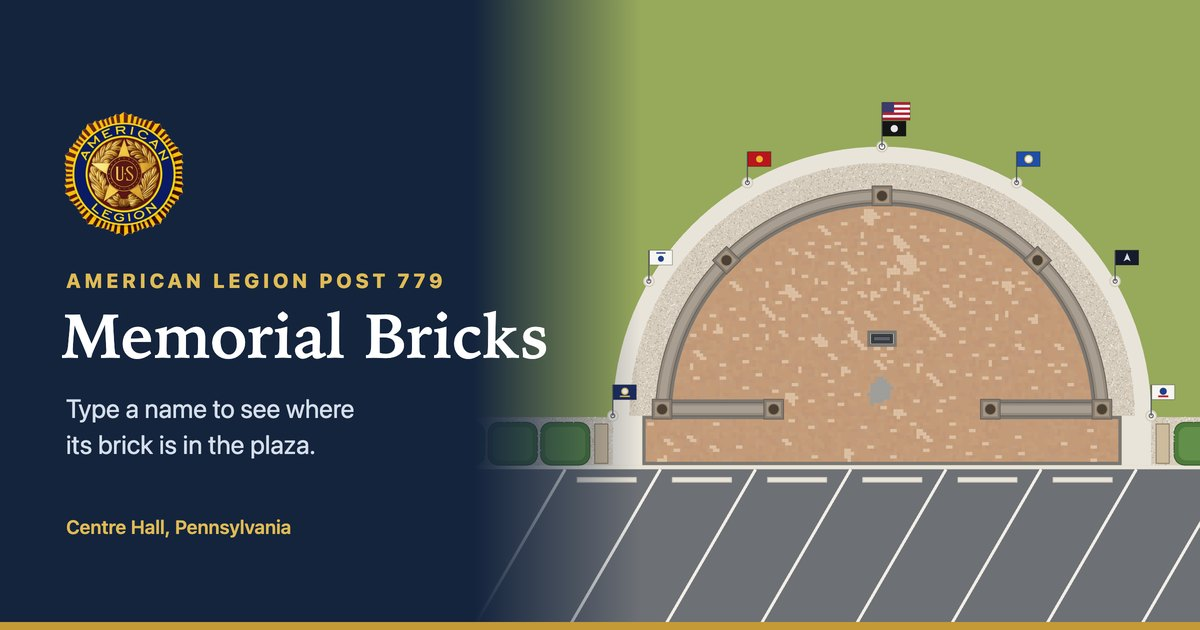
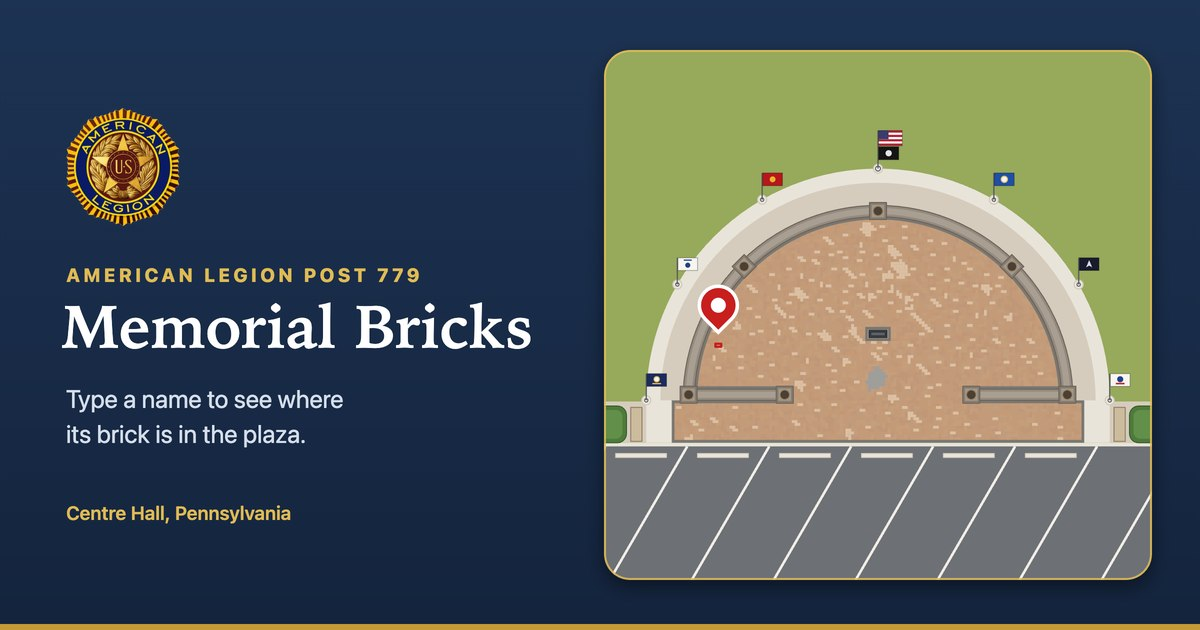
Gravel under the shrubs, new link preview, fixes for larger text
- Stones in the gravel beds are drawn under the shrubs, bench and path, and
  the ones behind the wall no longer poke out over the path
- Link preview redone: the map sits in its own frame beside the title, with
  a pin on a brick. Its address has a version number so apps that cached
  the old picture fetch the new one, plus size and alt text
- The page could be forced wider than the screen, which cut off About, the
  close button and the brick with Safari's text size turned up. It now
  always fits, and the header, card and About tighten on very narrow screens
- Double-tapping a button no longer zooms the page on iPhones

diff --git a/js/map.js b/js/map.js
@@ -249,24 +249,26 @@ const MapView = (() => {
     out.curb = halfRing(axis, arcY, R.gravelOut, R.curbOut);
     for (const p of Plan.pads) out.curb.rect(p.left, p.top, p.right - p.left, p.bottom - p.top);
 
-    // Stones in the gravel beds.
+    // Stones in the gravel: the ring behind the wall, and the beds beside the
+    // walkway (those go down first, under the shrubs, bench and path).
     const rand = mulberry32(779);
-    out.stonesDark = new Path2D();
-    out.stonesLight = new Path2D();
-    const stone = (x, y) => {
+    const stones = () => ({ dark: new Path2D(), light: new Path2D() });
+    out.ringStones = stones();
+    out.bedStones = stones();
+    const stone = (group, x, y) => {
       const size = 0.07 + rand() * 0.13,
-        path = rand() < 0.55 ? out.stonesDark : out.stonesLight;
+        path = rand() < 0.55 ? group.dark : group.light;
       path.moveTo(x + size, y);
       path.arc(x, y, size, 0, 2 * Math.PI);
     };
     const scatter = (x, y, w, h) => {
-      for (let i = 0; i < w * h * 3; i++) stone(x + rand() * w, y + rand() * h);
+      for (let i = 0; i < w * h * 3; i++) stone(out.bedStones, x + rand() * w, y + rand() * h);
     };
     const area = (Math.PI / 2) * (R.gravelOut ** 2 - R.wallOut ** 2);
     for (let i = 0; i < area * 3; i++) {
       const t = Math.PI + rand() * Math.PI,
         r = Math.sqrt(R.wallOut ** 2 + rand() * (R.gravelOut ** 2 - R.wallOut ** 2));
-      stone(axis + r * Math.cos(t), arcY + r * Math.sin(t));
+      stone(out.ringStones, axis + r * Math.cos(t), arcY + r * Math.sin(t));
     }
 
     // Walls: the curved one and the two straight ones.
@@ -753,9 +755,10 @@ const MapView = (() => {
       ctx.lineWidth = Math.max(px, 0.1);
       ctx.stroke(S.wheelStops);
 
-      // Hedges and benches beside the walkway
+      // Gravel beds beside the walkway, with the shrubs on them
       ctx.fillStyle = C.gravel;
       ctx.fill(S.hedgeRock);
+      if (scale > 3) this.drawStones(S.bedStones);
       ctx.fillStyle = C.hedge;
       ctx.fill(S.hedges);
       ctx.fillStyle = C.hedgeTop;
@@ -770,10 +773,10 @@ const MapView = (() => {
       ctx.fillStyle = C.gravel;
       ctx.fill(S.gravel);
       if (scale > 3) {
-        ctx.fillStyle = C.gravelDark;
-        ctx.fill(S.stonesDark);
-        ctx.fillStyle = C.gravelLight;
-        ctx.fill(S.stonesLight);
+        ctx.save();
+        ctx.clip(S.gravel); // so no stone pokes out over the path
+        this.drawStones(S.ringStones);
+        ctx.restore();
       }
       ctx.fillStyle = C.bench;
       ctx.fill(S.benches);
@@ -861,6 +864,14 @@ const MapView = (() => {
         this.zoomedOut = zoomedOut;
         this.cb.onZoomedOut?.(zoomedOut);
       }
+    }
+
+    drawStones({ dark, light }) {
+      const { ctx } = this;
+      ctx.fillStyle = C.gravelDark;
+      ctx.fill(dark);
+      ctx.fillStyle = C.gravelLight;
+      ctx.fill(light);
     }
 
     // Engraved bricks are a little lighter than the rest of the field (the gray

diff --git a/css/style.css b/css/style.css
@@ -45,10 +45,16 @@ body {
   height: 100%;
 }
 
+/* No double-tap zoom on buttons (pinching still zooms the page). */
+html {
+  touch-action: manipulation;
+}
+
 body {
   margin: 0;
   display: grid;
   grid-template-rows: var(--topbar-h) minmax(0, 1fr);
+  grid-template-columns: minmax(0, 1fr); /* never wider than the screen */
   height: 100dvh;
   overflow: hidden;
   background: var(--paper);
@@ -1351,6 +1357,59 @@ select {
   .card-emblems:has(.card-emblem + .card-emblem) .card-emblem {
     width: 32px;
     height: 32px;
+  }
+}
+
+/* Very narrow: a small phone, or Safari's text size turned up (at 150% an
+   iPhone is about 260px wide). */
+@media (max-width: 340px) {
+  .brand-kicker {
+    display: none;
+  }
+
+  .brand-title {
+    font-size: 17px;
+    white-space: normal;
+  }
+
+  .topbar-btn {
+    padding: 0 11px;
+  }
+
+  .card-emblem {
+    width: 34px;
+    height: 34px;
+  }
+
+  .card-emblems:has(.card-emblem + .card-emblem) .card-emblem {
+    width: 26px;
+    height: 26px;
+  }
+
+}
+
+/* Narrower still (only with the text size turned up): in About, each bar
+   goes under its label so the bars keep their length. */
+@media (max-width: 300px) {
+  .about-kicker {
+    display: none;
+  }
+
+  .bars {
+    gap: 3px;
+  }
+
+  .bars li {
+    grid-template-columns: minmax(0, 1fr) auto;
+    gap: 1px 10px;
+    min-height: 0;
+    font-size: 14px;
+  }
+
+  .bars-track {
+    grid-column: 1 / -1;
+    grid-row: 2;
+    height: 7px;
   }
 }
 

diff --git a/index.html b/index.html
@@ -9,9 +9,17 @@
       content="Find a memorial brick at American Legion Post 779 in Centre Hall, PA. Type a name to see where it is in the plaza."
     />
     <meta name="theme-color" content="#14243d" />
+    <link rel="canonical" href="https://pjpuzzler.github.io/legion-bricks/" />
+    <meta property="og:type" content="website" />
+    <meta property="og:site_name" content="American Legion Post 779" />
+    <meta property="og:url" content="https://pjpuzzler.github.io/legion-bricks/" />
     <meta property="og:title" content="Memorial Bricks · American Legion Post 779" />
     <meta property="og:description" content="Type a name to see where its brick is in the memorial plaza." />
-    <meta property="og:image" content="https://pjpuzzler.github.io/legion-bricks/img/share.jpg" />
+    <!-- Bump ?v= when the picture changes, so apps that cached the old one fetch it again. -->
+    <meta property="og:image" content="https://pjpuzzler.github.io/legion-bricks/img/share.jpg?v=2" />
+    <meta property="og:image:width" content="1200" />
+    <meta property="og:image:height" content="630" />
+    <meta property="og:image:alt" content="A map of the memorial plaza with a red pin on one brick" />
     <meta name="twitter:card" content="summary_large_image" />
     <link rel="icon" type="image/png" href="img/favicon.png" />
     <link rel="apple-touch-icon" href="img/apple-touch-icon.png" />
